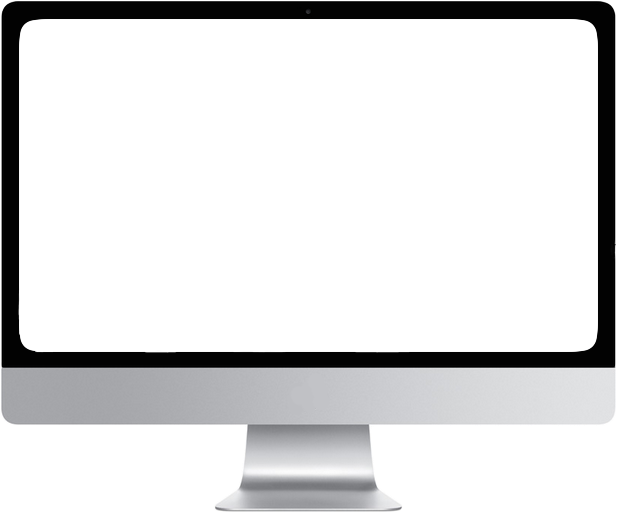
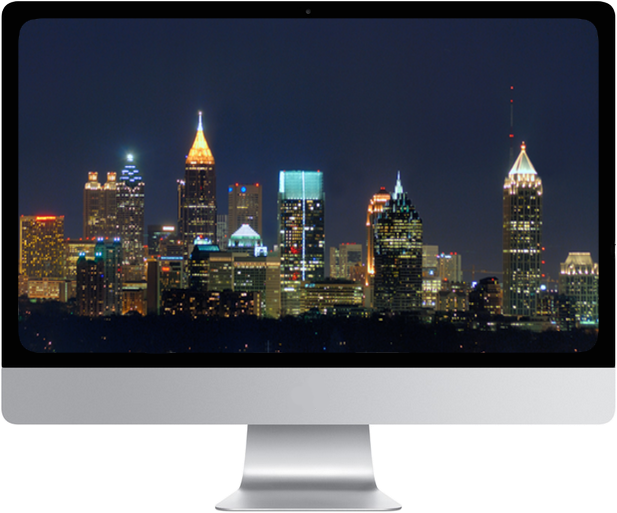
updated contact images and working on layout

diff --git a/app/index.html b/app/index.html
@@ -147,15 +147,17 @@
           </div>
         </div>
         <div class="desktop col-sm-4">
-          <img src="../images/desktop.png" alt="picture of a desktop" />
-          <div class="desktop-content">
-            <p>See me out in Atlanta, GA or can give me a shout on...</p>
-            <ul>
-              <li><a href="mailto:gilewiczd@gmail.com?Subject=Possible%20Opportunity" target="_top"><img src="../images/email.png" alt="email icon" /></a></li>
-              <li><a href="https://twitter.com/deangilewicz" target="_blank"><img src="../images/twitter.png" alt="twitter icon" /></a></li>
-              <li><a href="https://www.linkedin.com/home?trk=nav_responsive_tab_home"target="_blank"><img src="../images/linkedin.png" alt="linkedin icon" /></a></li>
-              <li><a href="http://deangilewicz.com/" target="_blank"><img src="../images/blog.png" alt="blog icon" /></a></li>
-            </ul>
+          <div class="desktop-container">
+            <img src="../images/desktop.png" alt="picture of a desktop" />
+            <div class="desktop-content">
+              <p>See me out in Atlanta, GA or can give me a shout on...</p>
+              <ul>
+                <li><a href="mailto:gilewiczd@gmail.com?Subject=Possible%20Opportunity" target="_top"><img src="../images/email.png" alt="email icon" /></a></li>
+                <li><a href="https://twitter.com/deangilewicz" target="_blank"><img src="../images/twitter.png" alt="twitter icon" /></a></li>
+                <li><a href="https://www.linkedin.com/home?trk=nav_responsive_tab_home"target="_blank"><img src="../images/linkedin.png" alt="linkedin icon" /></a></li>
+                <li><a href="http://deangilewicz.com/" target="_blank"><img src="../images/blog.png" alt="blog icon" /></a></li>
+              </ul>
+            </div>
           </div>
         </div>
         <div class="smartphone col-sm-4">

diff --git a/app/styles/main.scss b/app/styles/main.scss
@@ -363,28 +363,37 @@ body {
     }
     .desktop {
       border: 1px solid red;
-      img {
-        width: 52%;
-      }
-      .desktop-content {
-        border: 1px solid red;
-        ul {
+      .desktop-container {
+        border: 2px solid blue;
+        padding: 20px 0% 20px 0%;
+        width: 100%;
+        img {
           width: 100%;
-          padding: 0px;
-          text-align: center;
         }
-        li {
-          display: inline-block;
-          width: 10%;
-          list-style-type: none;
+        .desktop-content {
           border: 1px solid red;
-          margin: 0px 3% 0px 3%;
-          img {
-            width: 85%;
+          ul {
+            width: 100%;
+            padding: 0px;
+            text-align: center;
           }
-          a {
-            text-decoration: none;
-            color: black;
+          li {
+            display: inline-block;
+            width: 10%;
+            list-style-type: none;
+            border: 1px solid red;
+            margin: 0px 3% 0px 3%;
+            img {
+              width: 85%;
+              &:hover {
+                padding-bottom: 2px;
+                border-bottom: 2px solid gray;
+              }
+            }
+            a {
+              text-decoration: none;
+              color: black;
+            }
           }
         }
       }
@@ -403,6 +412,7 @@ body {
           width: 11%;
           margin-bottom: 20px;
           &:hover {
+            padding-bottom: 1px;
             border-bottom: 2px solid gray;
           }
         }
